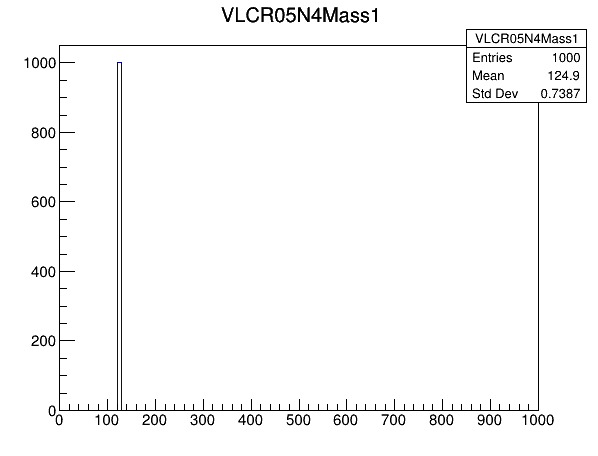
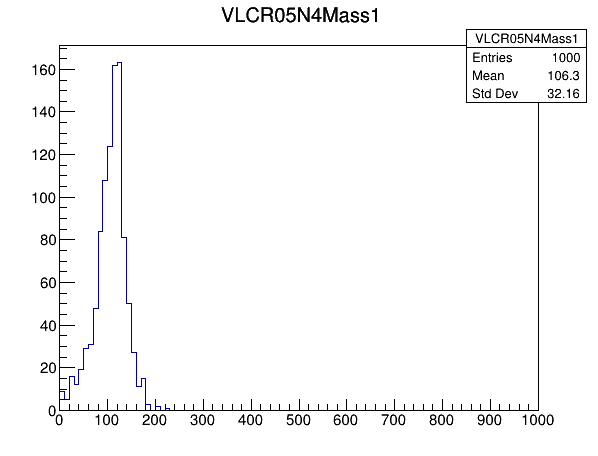
Update pairing up macro and upload example macro

diff --git a/Delphes/src/AnalyzeM.C b/Delphes/src/AnalyzeM.C
@@ -25,9 +25,9 @@ R__LOAD_LIBRARY(libDelphes)
 
 void AnalyzeM(const char *inputFile, const char *outputFile){
      gSystem->Load("libDelphes.so");
-     TChain chain("Delphes");
-     chain.Add(inputFile);
-     ExRootTreeReader *treeReader = new ExRootTreeReader(&chain);
+     //TChain chain("Delphes");
+     //chain.Add(inputFile);
+     //ExRootTreeReader *treeReader = new ExRootTreeReader(&chain);
      TFile *file_sig = new TFile(inputFile);
      TFile *output = new TFile(outputFile, "recreate");
      TTree *tree_sig = (TTree*)file_sig->Get("Delphes");
@@ -53,8 +53,6 @@ void AnalyzeM(const char *inputFile, const char *outputFile){
      Double_t VLC2pt;
      Double_t VLC2mass;
      Double_t VLCR05N4pairmass;
-     Double_t VLCR05N4pair1Mass = 0;
-     Double_t VLCR05N4pair2Mass = 0;
      Int_t pair1jet1entry;
      Int_t pair1jet2entry;
      Int_t pair2jet1entry;
@@ -71,7 +69,8 @@ void AnalyzeM(const char *inputFile, const char *outputFile){
 	 VLCjetR05N4_phi->GetBranch()->GetEntry(entry);
 	 VLCjetR05N4_pt->GetBranch()->GetEntry(entry);
 	 VLCjetR05N4_mass->GetBranch()->GetEntry(entry);
-	 
+	 Double_t VLCR05N4pair1Mass = 0;
+
 	 for(Int_t vlc1entry=0; vlc1entry < nVLCjet; vlc1entry++){
 	     for(Int_t vlc2entry=vlc1entry+1; vlc2entry < nVLCjet; vlc2entry++){
 		 VLC1eta = VLCjetR05N4_eta->GetValue(vlc1entry);
@@ -82,6 +81,7 @@ void AnalyzeM(const char *inputFile, const char *outputFile){
          	 VLC2phi = VLCjetR05N4_phi->GetValue(vlc2entry);
          	 VLC2pt = VLCjetR05N4_pt->GetValue(vlc2entry);
          	 VLC2mass = VLCjetR05N4_mass->GetValue(vlc2entry);
+		 VLCR05N4pairmass = 0;
 
                  TLorentzVector h1;
                  TLorentzVector jet1;
@@ -91,6 +91,7 @@ void AnalyzeM(const char *inputFile, const char *outputFile){
 		 h1=jet1+jet2;
 		 VLCR05N4pairmass = h1.Mag();
                  //VLCR05N4pairmass = TMath::Sqrt(2*VLC1pt*VLC2pt*(TMath::CosH(VLC1eta-VLC2eta)-TMath::Cos(VLC1phi-VLC2phi)));
+		 
 		 if(abs(125 - VLCR05N4pairmass) < abs(125 -VLCR05N4pair1Mass)){
 		     VLCR05N4pair1Mass = VLCR05N4pairmass;
 		     pair1jet1entry = vlc1entry;
@@ -119,6 +120,7 @@ void AnalyzeM(const char *inputFile, const char *outputFile){
          VLC2pt = VLCjetR05N4_pt->GetValue(pair2jet2entry);
          VLC2mass = VLCjetR05N4_mass->GetValue(pair2jet2entry);
 
+         Double_t VLCR05N4pair2Mass = 0;
          TLorentzVector h2;
          TLorentzVector jet1;
          TLorentzVector jet2;

diff --git a/Delphes/src/macroExample.C b/Delphes/src/macroExample.C
@@ -1,0 +1,35 @@
+//usage: root -l macroExample.C\(\"inputfile.root\"\,\"outputfile.root\"\)
+#ifdef __CLING__
+R__LOAD_LIBRARY(libDelphes)
+#include "classes/DelphesClasses.h"
+#include "classes/DelphesFactory.h"
+#include "classes/DelphesStream.h"
+#include "classes/SortableObject.h"
+#include "modules/Delphes.h"
+#include "external/ExRootAnalysis/ExRootProgressBar.h"
+#include "external/ExRootAnalysis/ExRootTreeBranch.h"
+#include "external/ExRootAnalysis/ExRootTreeReader.h"
+#include "external/ExRootAnalysis/ExRootTreeWriter.h"
+#include "external/ExRootAnalysis/ExRootTask.h"
+#endif
+//put header files you need here
+
+void AnalyzeM(const char *inputFile, const char *outputFile){
+     gSystem->Load("libDelphes.so");
+     TFile *file_sig = new TFile(inputFile);
+     TFile *output = new TFile(outputFile, "recreate");
+     TTree *tree_sig = (TTree*)file_sig->Get("Delphes");
+     TTree *tree_output = new TTree("tree_output","Delphes");
+
+     Int_t nEntries = tree_sig->GetEntries();
+
+     for(Long64_t entry=0; entry < nEntries; entry++){
+	 tree_sig->GetEntry(entry);
+	 tree_output->GetEntry(entry);
+	 //write macro algorithm here
+     }
+     tree_output->Write();
+     output->Close();
+     file_sig->Close();
+}
+
